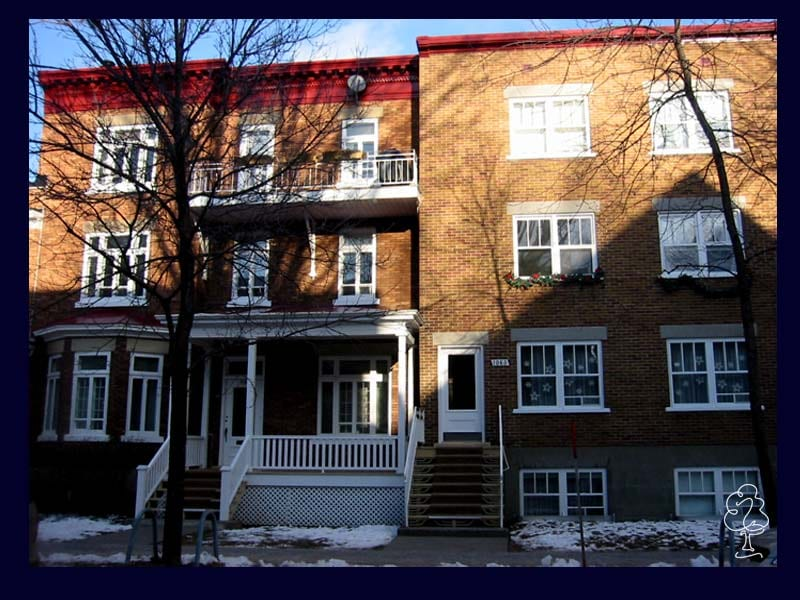
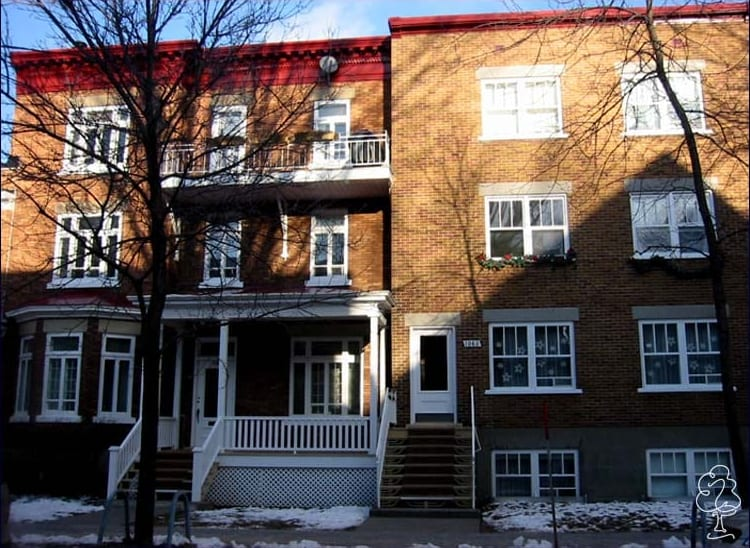
Retire cadres bleus de 2 photos et 11 entrees de la galerie immeubles
- Recadre immeuble-multifamilial-quebec.jpg et vieux-quebec-residence.jpg pour enlever le contour bleu marine
- Retire 11 photos de la section Condos & edifices commerciaux (fichiers conserves car reutilises sur l'accueil)

diff --git a/src/data/soldProperties.ts b/src/data/soldProperties.ts
@@ -197,48 +197,6 @@ export const soldPhotos: SoldPhoto[] = [
     caption: "Résidence — Vieux-Québec",
   },
   {
-    src: "/proprietes-vendues/condo-prestige-quebec.jpg",
-    category: "immeubles",
-    alt: "Condo de prestige à Québec",
-    caption: "Condo de prestige — Québec",
-  },
-  {
-    src: "/proprietes-vendues/cite-verte-place-publique.jpg",
-    category: "immeubles",
-    alt: "Place publique et immeubles résidentiels de La Cité Verte",
-    caption: "La Cité Verte — place publique",
-  },
-  {
-    src: "/proprietes-vendues/cite-verte-panneau.jpg",
-    category: "immeubles",
-    alt: "Panneau présentant le projet de condos La Cité Verte",
-    caption: "La Cité Verte — projet de condos",
-  },
-  {
-    src: "/proprietes-vendues/cite-verte-facade.jpg",
-    category: "immeubles",
-    alt: "Façade contemporaine d'une habitation à La Cité Verte",
-    caption: "La Cité Verte — habitation contemporaine",
-  },
-  {
-    src: "/proprietes-vendues/cite-verte-piscine.jpg",
-    category: "immeubles",
-    alt: "Piscine intérieure de La Cité Verte",
-    caption: "La Cité Verte — piscine intérieure",
-  },
-  {
-    src: "/proprietes-vendues/cite-verte-condo-aire-de-vie.jpg",
-    category: "immeubles",
-    alt: "Aire de vie d'un condo à La Cité Verte",
-    caption: "La Cité Verte — intérieur d'un condo",
-  },
-  {
-    src: "/proprietes-vendues/cite-verte-condo-salon.jpg",
-    category: "immeubles",
-    alt: "Salon d'un condo à La Cité Verte",
-    caption: "La Cité Verte — salon d'un condo",
-  },
-  {
     src: "/proprietes-vendues/domaine-sillery-vue-aerienne.jpg",
     category: "immeubles",
     alt: "Vue aérienne du Domaine de Sillery",
@@ -251,24 +209,6 @@ export const soldPhotos: SoldPhoto[] = [
     caption: "Domaine de Sillery — terrain jumelé",
   },
   {
-    src: "/proprietes-vendues/domaine-sillery-piscine-patrimoniale.jpg",
-    category: "immeubles",
-    alt: "Vue sur le fleuve depuis le Domaine de Sillery",
-    caption: "Domaine de Sillery — vue sur le fleuve",
-  },
-  {
-    src: "/proprietes-vendues/domaine-sillery-chapelle-patrimoniale.jpg",
-    category: "immeubles",
-    alt: "Vue panoramique sur le fleuve depuis le Domaine de Sillery",
-    caption: "Domaine de Sillery — vue panoramique",
-  },
-  {
-    src: "/proprietes-vendues/domaine-sillery-batiment-patrimonial.jpg",
-    category: "immeubles",
-    alt: "Vue aérienne du bâtiment patrimonial du Domaine de Sillery",
-    caption: "Domaine de Sillery — bâtiment patrimonial",
-  },
-  {
     src: "/proprietes-vendues/bennemore-vue-aerienne.jpg",
     category: "immeubles",
     alt: "Vue aérienne du complexe résidentiel Le Bennemore",
@@ -279,12 +219,6 @@ export const soldPhotos: SoldPhoto[] = [
     category: "immeubles",
     alt: "Vue aérienne du Boisé des Augustines",
     caption: "Boisé des Augustines — vue aérienne",
-  },
-  {
-    src: "/proprietes-vendues/jardins-merici-residence.jpg",
-    category: "immeubles",
-    alt: "Vue aérienne des Jardins Mérici",
-    caption: "Jardins Mérici — vue aérienne",
   },
   {
     src: "/proprietes-vendues/sous-les-bois-vue-aerienne.jpg",
